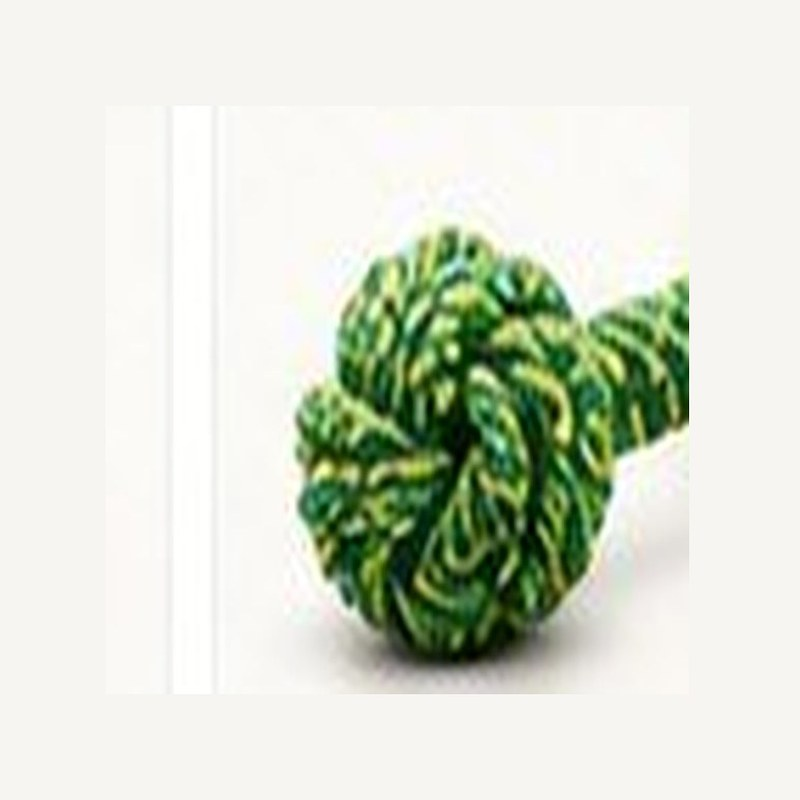
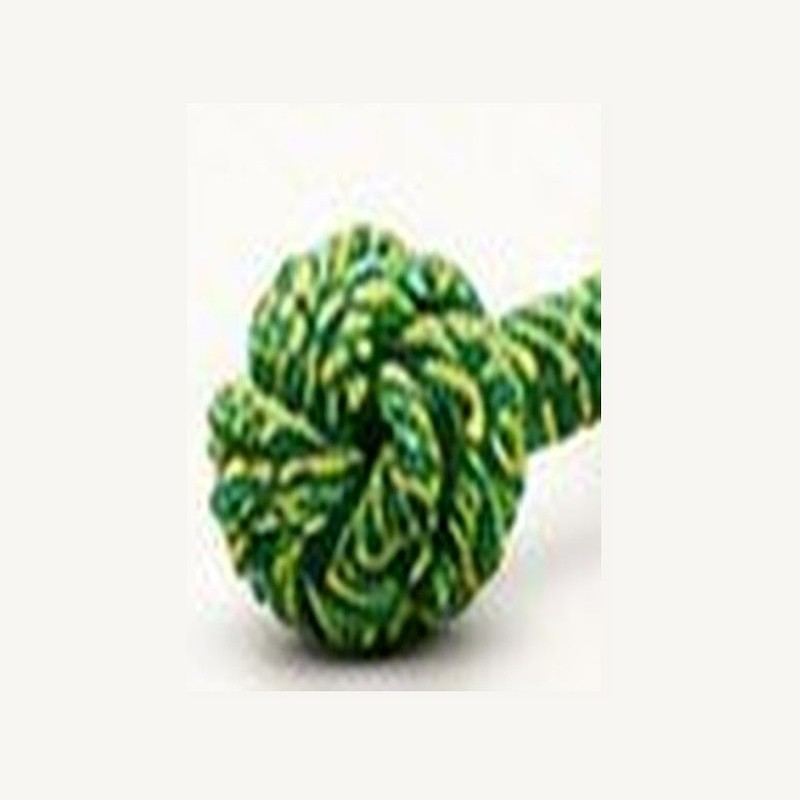
Add files via upload

Changed region(s): [[0.25, 0.25, 0.875, 0.875]]

diff --git a/js/script.js b/js/script.js
@@ -1,20 +1,20 @@
 const products=[
-['bed','Beds & Comfort','Orthopedic Pet Bed',49.99,'assets/prod_bed.jpg','Supportive everyday bed with a soft, cozy finish.'],
-['toy','Toys','Plush Elephant Toy',14.99,'assets/prod_elephant.jpg','Soft enrichment toy for gentle play sessions.'],
-['walk','Walking & Outdoor','Premium Leather Collar',24.99,'assets/prod_collar.jpg','Classic leather collar with a polished finish.'],
-['feed','Feeding','Stainless Steel Bowl',19.99,'assets/prod_bowl.jpg','Easy-clean bowl for daily meals and water.'],
-['groom','Grooming','Deshedding Brush',24.99,'assets/prod_brush.jpg','Comfortable grooming brush for regular coat care.'],
-['travel','Travel','Pet Carrier',59.99,'assets/prod_carrier.jpg','Secure travel carrier for everyday trips.'],
-['toy','Toys','Rope Chew Toy',12.99,'assets/prod_rope.jpg','Textured rope toy made for active play.'],
-['walk','Walking & Outdoor','No-Pull Harness',34.99,'assets/prod_harness.jpg','Comfort-focused harness for daily walks.'],
-['bed','Beds & Comfort','Calming Lounge Bed',64.99,'assets/prod_bed.jpg','Deep comfort for naps and quiet time.'],
-['toy','Toys','Soft Companion Elephant',16.99,'assets/prod_elephant.jpg','Cuddly companion for relaxed play.'],
-['walk','Walking & Outdoor','Classic Everyday Collar',21.99,'assets/prod_collar.jpg','Simple, durable collar for daily adventures.'],
-['feed','Feeding','Everyday Pet Bowl',17.99,'assets/prod_bowl.jpg','Clean-lined feeding bowl for home use.'],
-['groom','Grooming','Daily Coat Brush',22.99,'assets/prod_brush.jpg','Gentle brush for keeping coats tidy.'],
-['travel','Travel','Compact Travel Carrier',54.99,'assets/prod_carrier.jpg','Practical carrier for short trips.'],
-['toy','Toys','Heavy-Duty Rope Toy',15.99,'assets/prod_rope.jpg','Durable rope for interactive games.'],
-['walk','Walking & Outdoor','Adventure Harness',39.99,'assets/prod_harness.jpg','Supportive harness for outdoor exploration.']
+['bed','Beds & Comfort','Orthopedic Pet Bed',49.99,'assets/prod_bed.jpg?v=6','Supportive everyday bed with a soft, cozy finish.'],
+['toy','Toys','Plush Elephant Toy',14.99,'assets/prod_elephant.jpg?v=6','Soft enrichment toy for gentle play sessions.'],
+['walk','Walking & Outdoor','Premium Leather Collar',24.99,'assets/prod_collar.jpg?v=6','Classic leather collar with a polished finish.'],
+['feed','Feeding','Stainless Steel Bowl',19.99,'assets/prod_bowl.jpg?v=6','Easy-clean bowl for daily meals and water.'],
+['groom','Grooming','Deshedding Brush',24.99,'assets/prod_brush.jpg?v=6','Comfortable grooming brush for regular coat care.'],
+['travel','Travel','Pet Carrier',59.99,'assets/prod_carrier.jpg?v=6','Secure travel carrier for everyday trips.'],
+['toy','Toys','Rope Chew Toy',12.99,'assets/prod_rope.jpg?v=6','Textured rope toy made for active play.'],
+['walk','Walking & Outdoor','No-Pull Harness',34.99,'assets/prod_harness.jpg?v=6','Comfort-focused harness for daily walks.'],
+['bed','Beds & Comfort','Calming Lounge Bed',64.99,'assets/prod_bed.jpg?v=6','Deep comfort for naps and quiet time.'],
+['toy','Toys','Soft Companion Elephant',16.99,'assets/prod_elephant.jpg?v=6','Cuddly companion for relaxed play.'],
+['walk','Walking & Outdoor','Classic Everyday Collar',21.99,'assets/prod_collar.jpg?v=6','Simple, durable collar for daily adventures.'],
+['feed','Feeding','Everyday Pet Bowl',17.99,'assets/prod_bowl.jpg?v=6','Clean-lined feeding bowl for home use.'],
+['groom','Grooming','Daily Coat Brush',22.99,'assets/prod_brush.jpg?v=6','Gentle brush for keeping coats tidy.'],
+['travel','Travel','Compact Travel Carrier',54.99,'assets/prod_carrier.jpg?v=6','Practical carrier for short trips.'],
+['toy','Toys','Heavy-Duty Rope Toy',15.99,'assets/prod_rope.jpg?v=6','Durable rope for interactive games.'],
+['walk','Walking & Outdoor','Adventure Harness',39.99,'assets/prod_harness.jpg?v=6','Supportive harness for outdoor exploration.']
 ];
 let cart=JSON.parse(localStorage.getItem('pawCart')||'[]'), wishes=JSON.parse(localStorage.getItem('pawWish')||'[]'), active='All';
 const $=s=>document.querySelector(s); const grid=$('#productGrid');

diff --git a/CHANGELOG.md b/CHANGELOG.md
@@ -1,6 +1,7 @@
-# PAW & HAVEN — V4
+# PAW & HAVEN — V6
 
-- Rebuilt the storefront around a clean pet-retail shopping architecture.
-- Replaced ambiguous image placement with explicit per-section image assignments.
-- Added category-led navigation, search, filters, sorting, cart, wishlist and support.
-- Added responsive mobile layout and accessible semantic structure.
+## Image fix
+- Replaced the product image crops so no neighboring-product fragments, text, hearts, or UI elements appear inside product photos.
+- Tightened the framing so each product fills the card cleanly while remaining fully visible.
+- Added cache-busting query strings to product image paths so browsers do not reuse older image assets.
+- No store layout, colors, product data, or functionality were intentionally changed.
